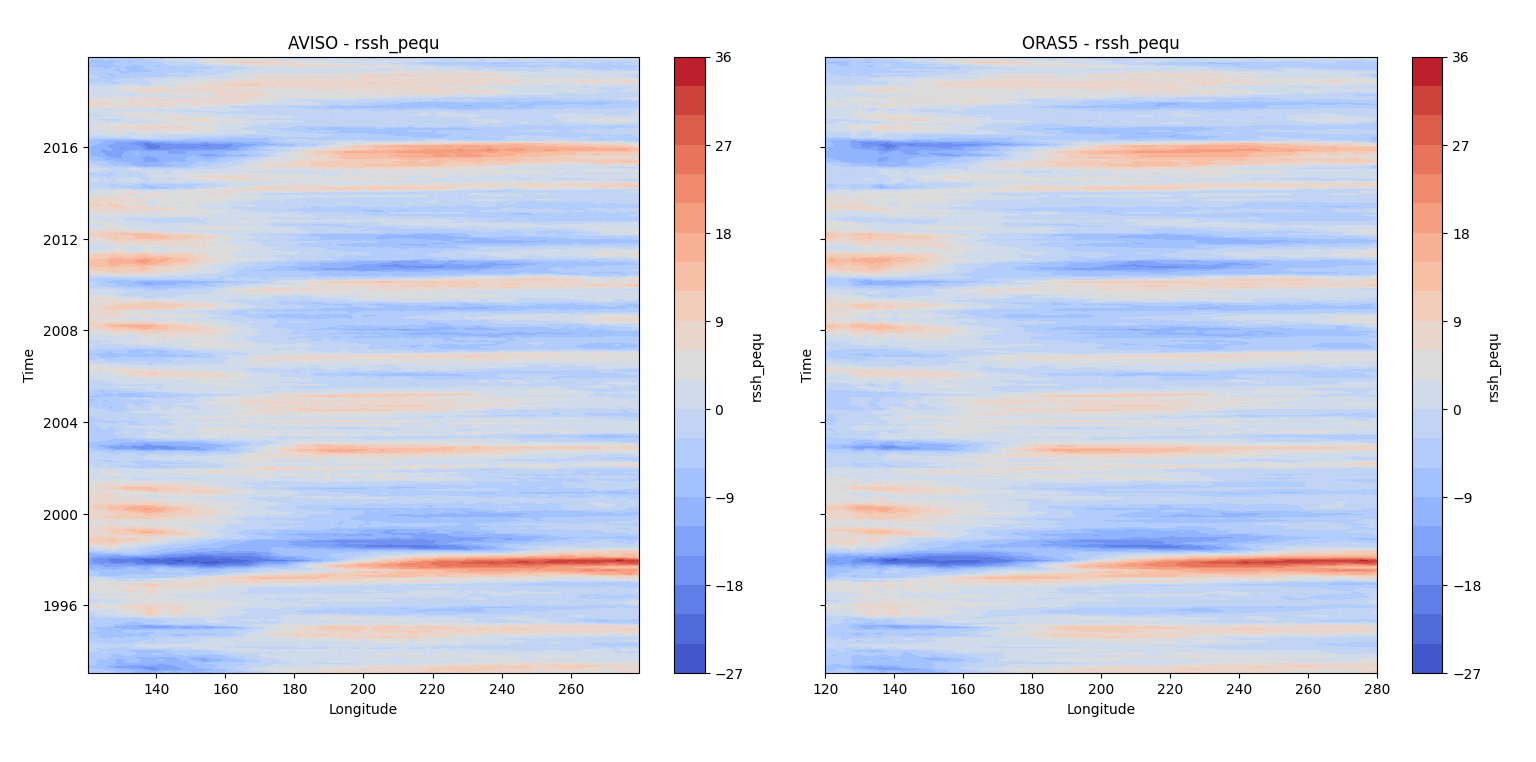
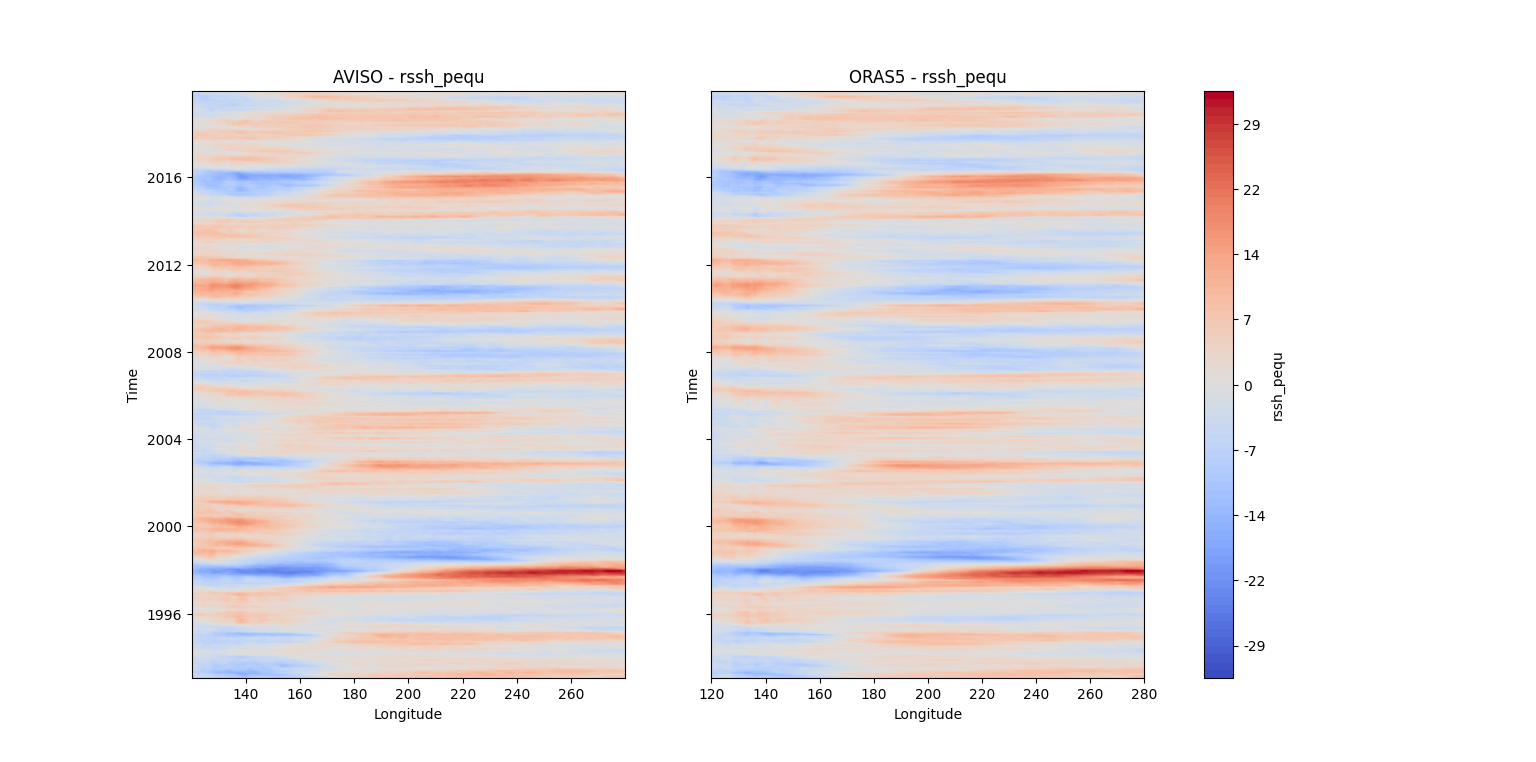
plot aviso ctl ssh

diff --git a/main.py b/main.py
@@ -1,70 +1,55 @@
 import xarray as xr
 import matplotlib.pyplot as plt
 import numpy as np
-import math
+import matplotlib.ticker as ticker
 
-# Define files
-files = [
-    "observations_AVISO_historical_r1i1p1f1_1993_2019_hovmoeller.nc",
-    "observations_ORAS5_historical_r1i1p1f1_1993_2019_hovmoeller.nc"
-]
+file = "observations_AVISO_historical_r1i1p1f1_1993_2019_hovmoeller.nc"
+ds = xr.open_dataset(f"./data_timeseries_hovmoeller/{file}")
+rssh_aviso = [var for var in ds.data_vars if var.startswith("rssh_")]
+rssh_north = ['rssh_pequ', 'rssh_pen1', 'rssh_pen3']
+rssh_south = ['rssh_pequ', 'rssh_pes1', 'rssh_pes3']
 
-# Load datasets
-ds = [xr.open_dataset(f"./data/{f}") for f in files]
+# Function to plot Hovmöller diagrams
+def plot_hovmoller(dataset, variables, title="Hovmöller Diagrams"):
+    num_vars = len(variables)
+    ncols = min(3, num_vars)  # Max 3 columns
+    nrows = int(np.ceil(num_vars / ncols))  # Compute rows dynamically
 
-# Extract relevant variables
-rssh_aviso = [var for var in ds[0].data_vars if var.startswith("rssh_")]
-rssh_oras5 = [var for var in ds[1].data_vars if var.startswith("rssh_")]
+    fig, axes = plt.subplots(nrows=nrows, ncols=ncols, figsize=(14, 3 * nrows), sharey=True)
+    axes = np.atleast_1d(axes).flatten()  # Flatten to handle single-row cases
 
-
-# Function to plot Hovmöller diagrams side by side
-def plot_hovmoller(var, dataset1, dataset2):
-    fig, axes = plt.subplots(nrows=1, ncols=2, figsize=(14, 5), sharey=True)
-
-    time1 = dataset1["time"]
-    lon1 = dataset1["longitude"]
-    data1 = dataset1[var]
-
-    time2 = dataset2["time"]
-    lon2 = dataset2["lon"]
-    data2 = dataset2[var]
-
-    # Determine symmetric color limits for each plot
-    vmin1 = np.nanmin(data1.values)
-    print(vmin1)
-    vmax1 = np.nanmax(data1.values)
-    vlim1 = max(abs(vmin1), abs(vmax1))
-
-    vmin2 = np.nanmin(data2.values)
-    vmax2 = np.nanmax(data2.values)
-    vlim2 = max(abs(vmin2), abs(vmax2))
-
-    # Plot Hovmöller diagrams
-    max_cbar = int(max(abs(np.round(vmin1, 0)), abs(np.round(vmax1, 0))))
-    N = np.round(max_cbar,1) * 2 + 6
+    # Determine shared color scale
+    vmin = min(np.nanmin(dataset[var].values) for var in variables)
+    vmax = max(np.nanmax(dataset[var].values) for var in variables)
+    max_cbar = int(max(abs(np.round(vmin, 0)), abs(np.round(vmax, 0))))
+    N = int(np.round(max_cbar, 1) * 2)
     levels = np.linspace(-max_cbar, max_cbar, N + 1)
     cmap = plt.get_cmap('coolwarm', N)
-    print(levels)
-    print()
 
-    c1 = axes[0].contourf(lon1, time1, data1, levels=levels, cmap=cmap, vmin=-max_cbar, vmax=max_cbar)
-    c2 = axes[1].contourf(lon2, time2, data2, levels=levels, cmap=cmap, vmin=-max_cbar, vmax=max_cbar)
+    # Plot each Hovmöller diagram
+    for i, var in enumerate(variables):
+        ax = axes[i]
+        time = dataset["time"]
+        lon = dataset["longitude"]
+        data = dataset[var]
 
-    axes[0].set_title(f"AVISO - {var}")
-    axes[1].set_title(f"ORAS5 - {var}")
-
-    for ax in axes:
+        c = ax.contourf(lon, time, data, levels=levels, cmap=cmap, vmin=-max_cbar, vmax=max_cbar)
+        ax.set_title(var)
         ax.set_xlabel("Longitude")
         ax.set_ylabel("Time")
 
-    # Create a single colorbar
-    cbar = fig.colorbar(c1, ax=axes, orientation="vertical")
-    cbar.set_label(var)
+    # Remove empty subplots if any
+    for j in range(i + 1, len(axes)):
+        fig.delaxes(axes[j])
 
+    # Add a single colorbar
+    cbar_ax = fig.add_axes([0.92, 0.15, 0.02, 0.7])  # Adjust position
+    cbar = fig.colorbar(c, cax=cbar_ax)
+    cbar.set_label("Data Value")
+    cbar.ax.yaxis.set_major_formatter(ticker.FuncFormatter(lambda x, _: f"{int(x)}"))  # Format labels
+    fig.suptitle(title, fontsize=14)
 
-# Plot each variable
-for var in rssh_aviso:
-    if var in rssh_oras5:
-        plot_hovmoller(var, ds[0], ds[1])
-
+plot_hovmoller(ds, rssh_aviso, title="All RSSH Variables")
+plot_hovmoller(ds, rssh_north, title="Hovmoeller Diagram for RSSH (eq and north only)")
+plot_hovmoller(ds, rssh_north, title="Hovmoeller Diagram for RSSH (eq and south only)")
 plt.show()

diff --git a/plot_comparison_ctl.py b/plot_comparison_ctl.py
@@ -1,0 +1,67 @@
+# ---------------------------------------------------------------------------------------------------------------------#
+# Plot time series and main characteristics of AVISO and Control Simulation
+# ---------------------------------------------------------------------------------------------------------------------#
+import xarray as xr
+import matplotlib.pyplot as plt
+import numpy as np
+import pandas as pd
+paths = ["./data_timeseries_hovmoeller/observations_AVISO_historical_r1i1p1f1_1993_2019_time_series.nc",
+    "./data_fliu/CTL_1980-2018_1M_grid_ssh.nc"]
+ds = [xr.open_dataset(p) for p in paths]
+ssh_aviso_n34 = ds[0]["ssh_n34e"]
+ssh_aviso_n3 = ds[0]["ssh_n30e"]
+ssh_aviso_n4 = ds[0]["ssh_n40e"]
+
+# Conversion to pandas and cm
+ds[1]["ssh"] = ds[1]["ssh"] * 100
+ds[1] = ds[1].assign_coords(time_counter=[pd.Timestamp(t.strftime('%Y-%m-%d %H:%M:%S')) for t in ds[1]["time_counter"].values])
+
+# Define regions
+regions = {
+    "N30": [(-5, 5), (210, 270)],
+    "N40": [(-5, 5), (160, 210)],
+    "N34": [(-5, 5), (190, 240)]
+}
+
+# Extract SSH variables of AVISO
+ssh_aviso = {key: ds[0][f"ssh_{key.lower()}e"] for key in regions}
+
+# Truncate time range (keep intersect)
+start_date = ds[0]["time"].min().values
+end_date = ds[1]["time_counter"].max().values
+print(start_date, end_date)
+ds[0] = ds[0].sel(time=slice(start_date, end_date))
+ds[1] = ds[1].sel(time_counter=slice(start_date, end_date))
+print(ds[0]["time"].values)
+print(ds[1]["time_counter"].values)
+
+# Compute spatial mean over each region for CTL
+ssh_ctl = {key: ds[1]["ssh"].sel(lat=slice(*box[0]), lon=slice(*box[1])).mean(dim=["lat", "lon"]) for key, box in regions.items()}
+
+# Remove mean seasonal cycle
+for key in ssh_ctl:
+    climatology = ssh_ctl[key].groupby("time_counter.month").mean("time_counter")
+    ssh_ctl[key] = ssh_ctl[key].groupby("time_counter.month") - climatology
+
+# Compute statistics
+stats = {key: {
+    "avg_aviso": ssh_aviso[key].mean().values,
+    "avg_ctl": ssh_ctl[key].mean().values,
+    "std_aviso": ssh_aviso[key].std().values,
+    "std_ctl": ssh_ctl[key].std().values,
+    "correlation": np.corrcoef(ssh_aviso[key].values, ssh_ctl[key].values, rowvar=False)[0 ,1]
+} for key in regions}
+
+# Plot AVISO and CTL SSH in subplots
+fig, axes = plt.subplots(3, 1, figsize=(12, 12), sharex=True)
+for i, (key, ax) in enumerate(zip(regions.keys(), axes)):
+    print(stats[key]['correlation'])
+    ax.plot(ds[0]["time"], ssh_aviso[key], label=f"{key} SSH AVISO mean = {stats[key]['avg_aviso']:.4f}, std = {stats[key]['std_aviso']:.2f}")
+    ax.plot(ds[1]["time_counter"], ssh_ctl[key], label=f"{key} SSH CTL    mean = {stats[key]['avg_ctl']:.4f}, std = {stats[key]['std_ctl']:.2f}", color='orange')
+    ax.set_title(f"AVISO and CTL SSH Anomalies averaged on {key}, correlation: {stats[key]['correlation']:.4f}")
+    ax.set_ylabel("SSH (cm)")
+    ax.grid(True)
+    ax.legend(loc='upper left')
+
+axes[-1].set_xlabel("Time")
+plt.show()

diff --git a/plot_hovmoeller_pair.py b/plot_hovmoeller_pair.py
@@ -1,0 +1,70 @@
+import xarray as xr
+import matplotlib.pyplot as plt
+import numpy as np
+import matplotlib.ticker as ticker
+
+# Define files
+files = [
+    "observations_AVISO_historical_r1i1p1f1_1993_2019_hovmoeller.nc",
+    "observations_ORAS5_historical_r1i1p1f1_1993_2019_hovmoeller.nc"
+]
+
+# Load datasets
+ds = [xr.open_dataset(f"./data_timeseries_hovmoeller/{f}") for f in files]
+
+# Extract relevant variables
+rssh_aviso = [var for var in ds[0].data_vars if var.startswith("rssh_")]
+rssh_oras5 = [var for var in ds[1].data_vars if var.startswith("rssh_")]
+
+
+# Function to plot Hovmöller diagrams side by side
+def plot_hovmoller_pair(var, dataset1, dataset2):
+    fig, axes = plt.subplots(nrows=1, ncols=2, figsize=(14, 5), sharey=True)
+
+    time1 = dataset1["time"]
+    lon1 = dataset1["longitude"]
+    data1 = dataset1[var]
+
+    time2 = dataset2["time"]
+    lon2 = dataset2["lon"]
+    data2 = dataset2[var]
+
+    # Determine symmetric color limits for each plot
+    vmin1 = np.nanmin(data1.values)
+    vmax1 = np.nanmax(data1.values)
+
+    vmin2 = np.nanmin(data2.values)
+    vmax2 = np.nanmax(data2.values)
+
+    # Plot Hovmöller diagrams
+    max_cbar = int(max(abs(np.round(vmin1, 0)), abs(np.round(vmax1, 0))))
+    N = int(np.round(max_cbar, 1) * 2 + 6)
+    levels = np.linspace(-max_cbar, max_cbar, N + 1)
+    cmap = plt.get_cmap('coolwarm', N)
+    print(levels)
+    print()
+
+    c1 = axes[0].contourf(lon1, time1, data1, levels=levels, cmap=cmap, vmin=-max_cbar, vmax=max_cbar)
+    c2 = axes[1].contourf(lon2, time2, data2, levels=levels, cmap=cmap, vmin=-max_cbar, vmax=max_cbar)
+
+    axes[0].set_title(f"AVISO - {var}")
+    axes[1].set_title(f"ORAS5 - {var}")
+
+    for ax in axes:
+        ax.set_xlabel("Longitude")
+        ax.set_ylabel("Time")
+
+    # Create a single colorbar
+    cbar = fig.colorbar(c1, ax=axes, orientation="vertical")
+    cbar.set_label(var)
+
+    # Remove commas and decimals from colorbar labels
+    cbar.ax.yaxis.set_major_formatter(ticker.FuncFormatter(lambda x, _: f"{int(x)}"))
+
+
+# Plot each variable
+for var in rssh_aviso:
+    if var in rssh_oras5:
+        plot_hovmoller_pair(var, ds[0], ds[1])
+
+plt.show()
